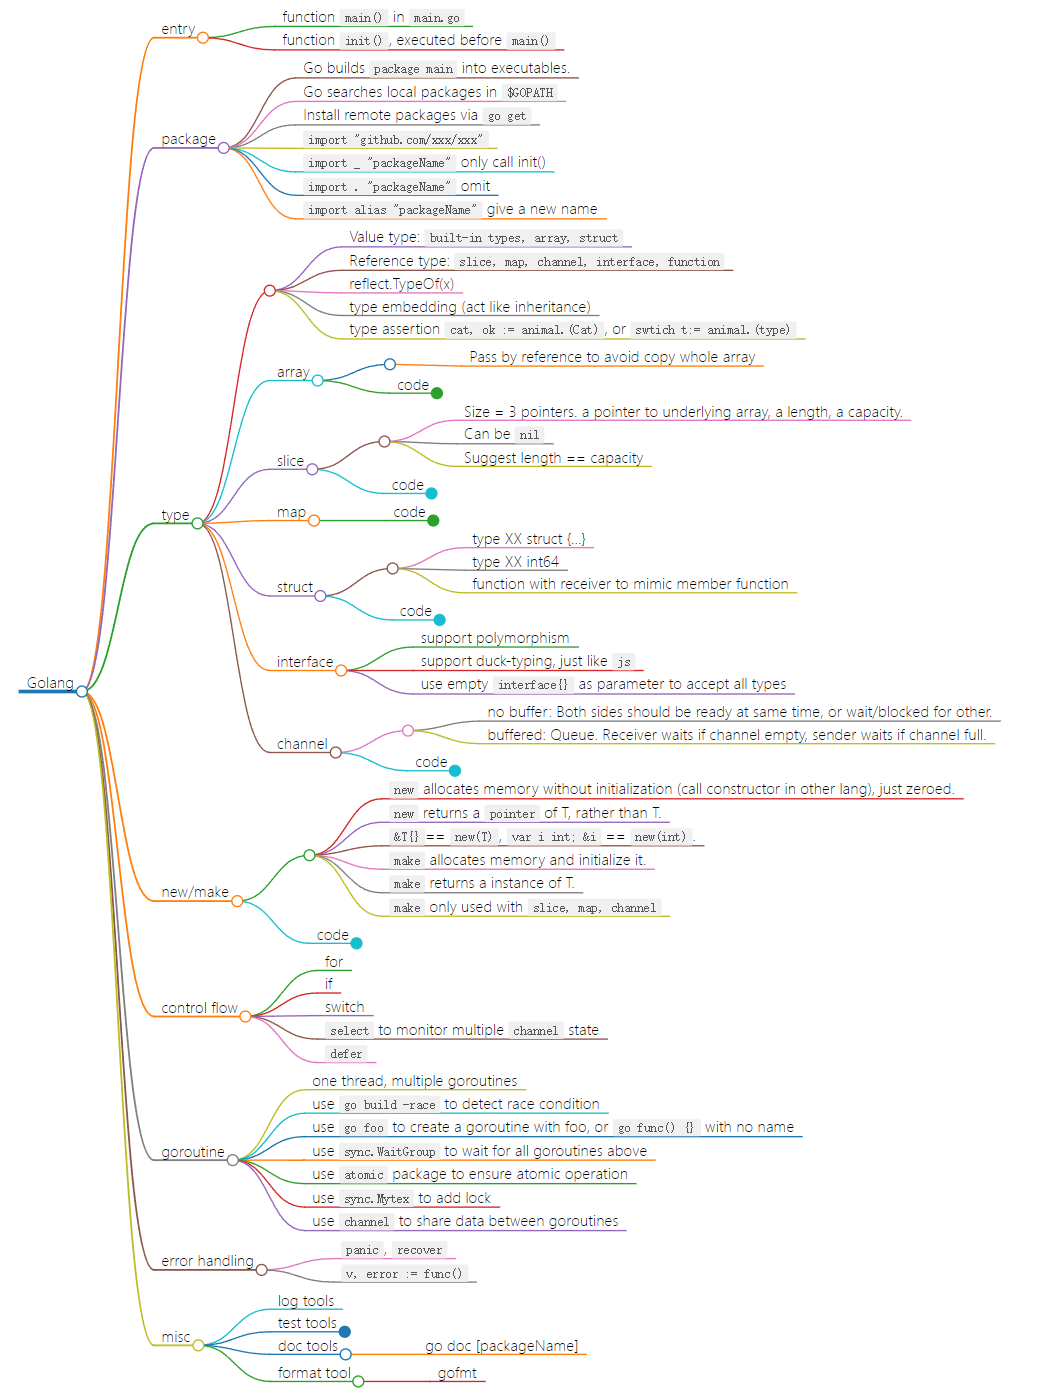
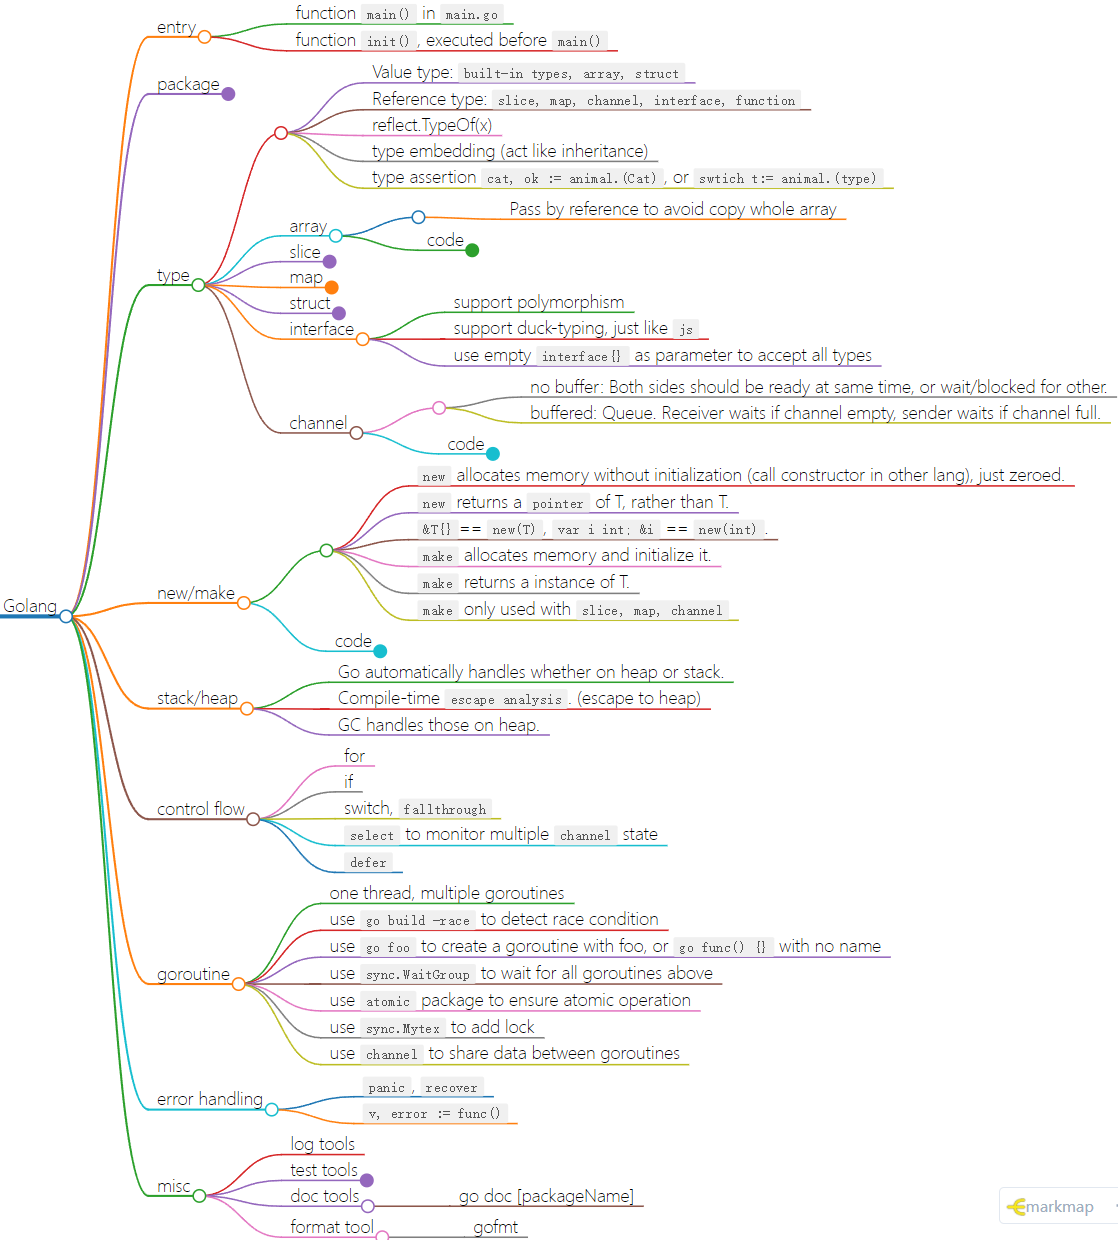
update

Changed region(s): [[0.0, 0.0, 0.9875, 1.0], [0.8949, 0.95, 0.9875, 0.9806], [0.7097, 0.7355, 0.7406, 0.7661]]

diff --git a/notes/Golang-crashcourse.md b/notes/Golang-crashcourse.md
@@ -155,14 +155,21 @@ m2 := map[string]int {} // Same effect as m. Called composite literals
 https://stackoverflow.com/questions/9320862/why-would-i-make-or-new
 https://stackoverflow.com/questions/31064688/which-is-the-nicer-way-to-initialize-a-map
 
+### stack/heap
+- Go automatically handles whether on heap or stack.
+- Compile-time `escape analysis`. (escape to heap)
+- GC handles those on heap.
+
 ### control flow
 - for
 - if
-- switch
+- switch, `fallthrough`
 - `select` to monitor multiple `channel` state
 - `defer`
 
 `defer` exec when exit current scope. Multiple defers in LIFO(stack) manner.
+
+Go use `break` automatically in `switch`, otherwise you need `fallthrough`.
 
 ### goroutine
 - one thread, multiple goroutines
